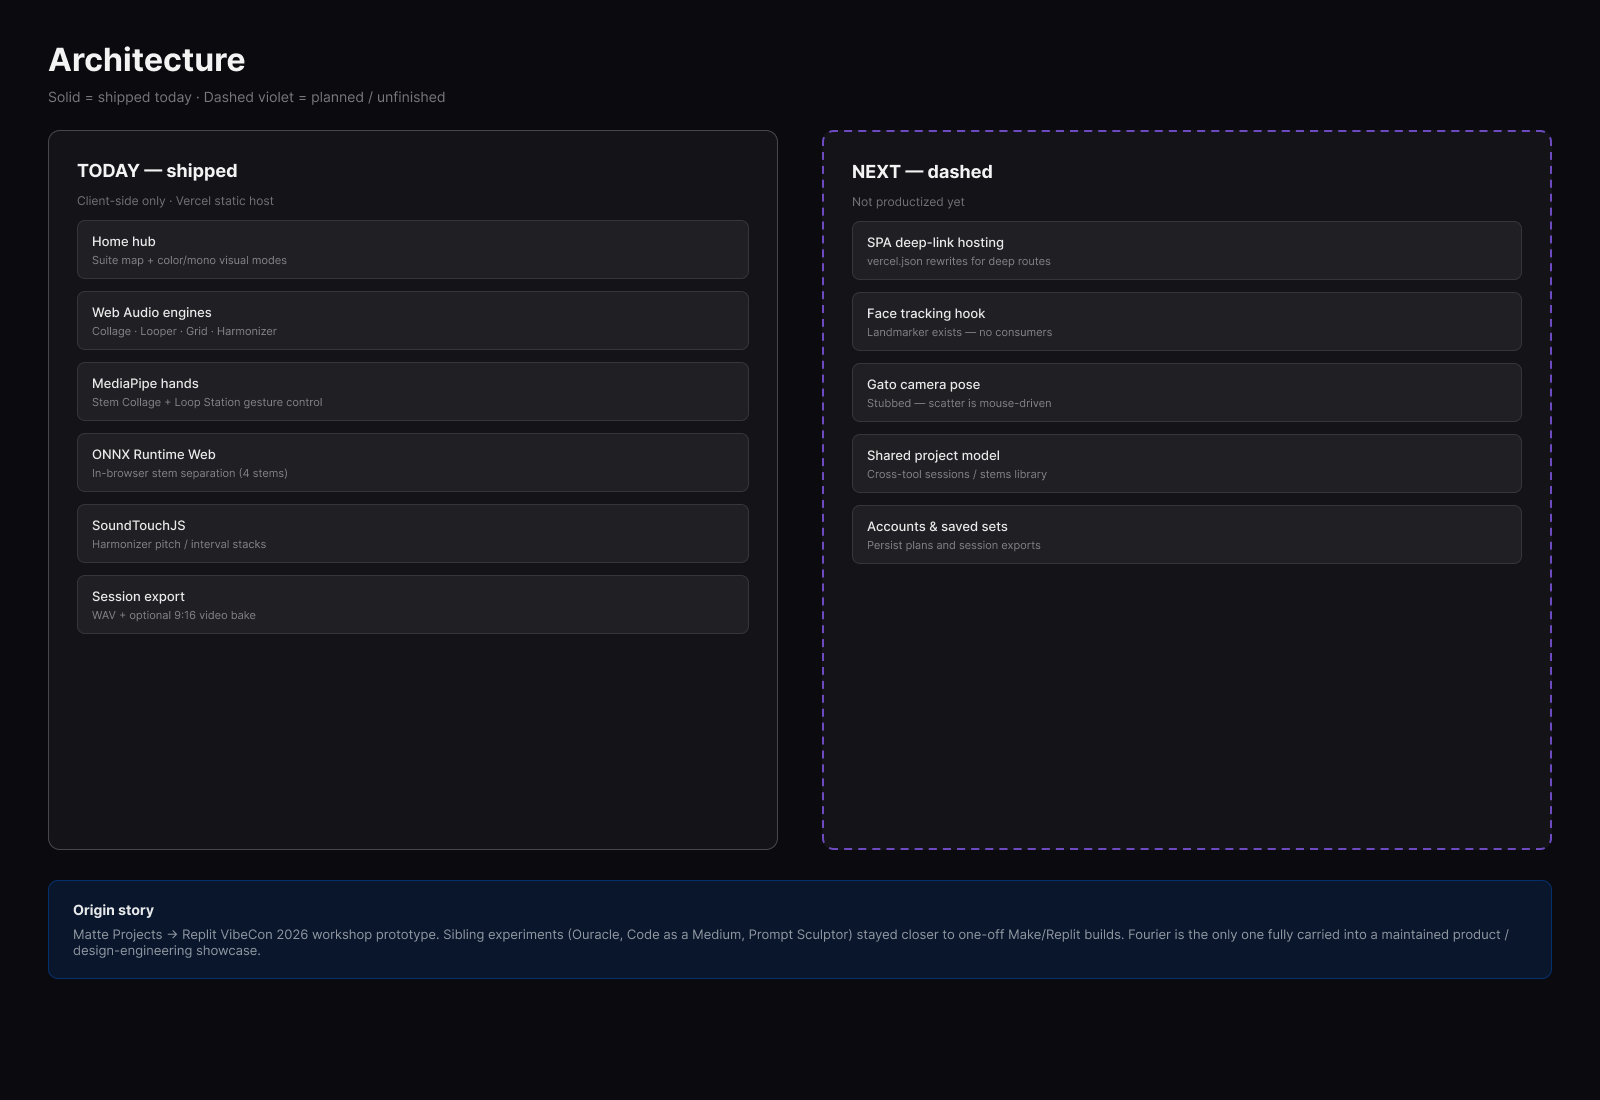
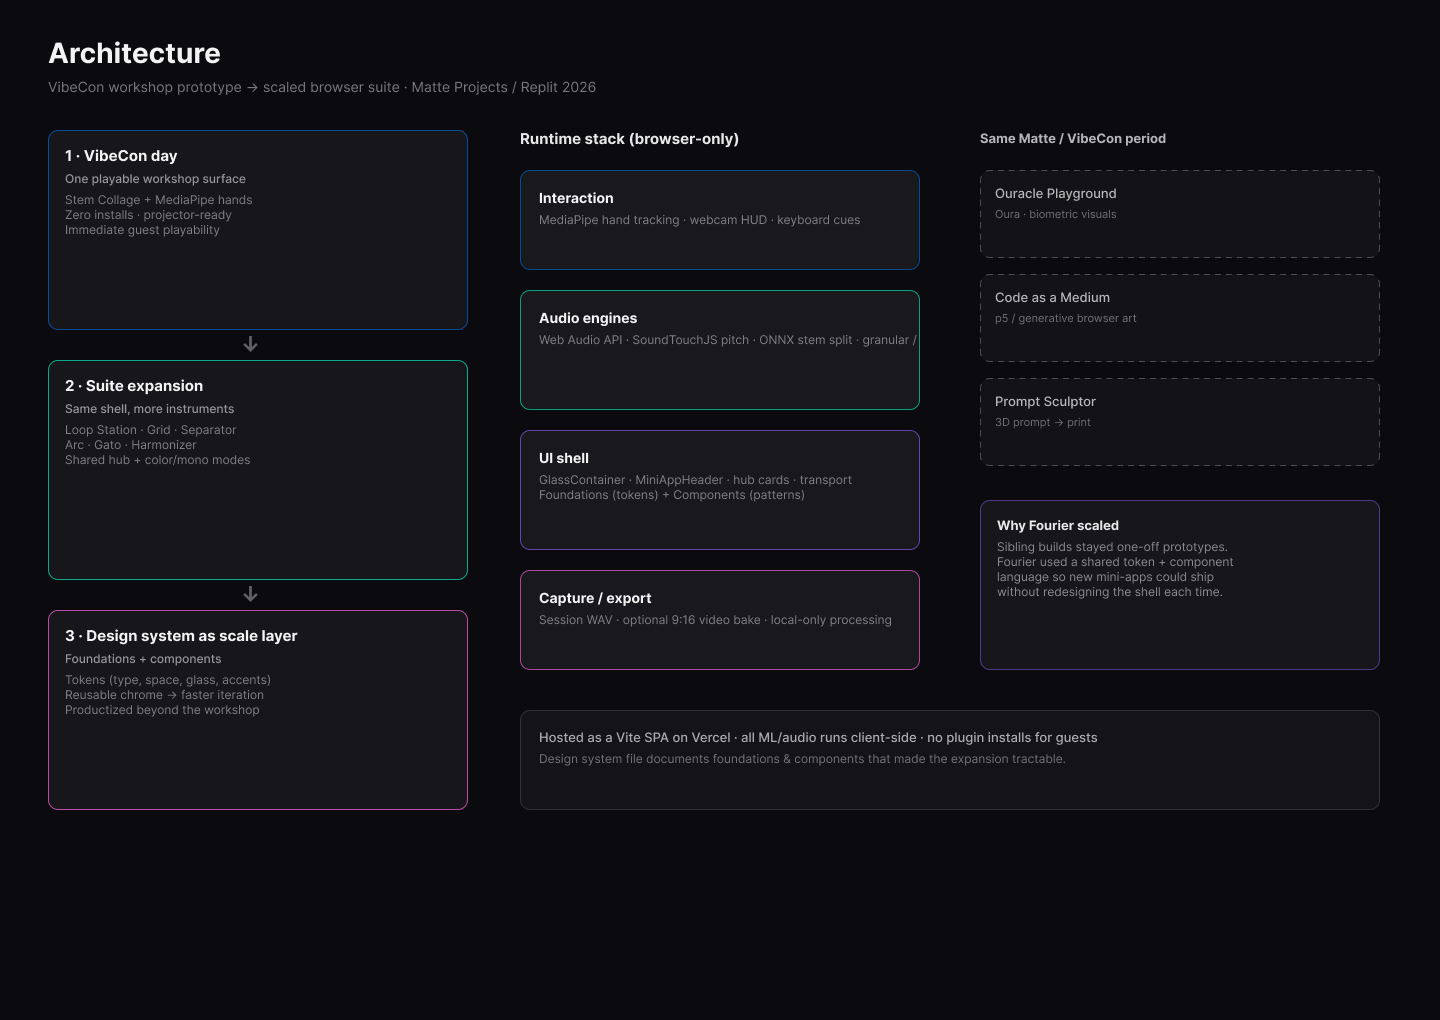
Rewrite portfolio copy for system scale; add VibeCon architecture graphic

diff --git a/docs/portfolio/COPY.md b/docs/portfolio/COPY.md
@@ -10,13 +10,13 @@ Use **exactly these four sections**. Each image appears **once**. The live app a
 | `02-suite-modes.png` | 2 — suite + color/mono |
 | `03-design-foundations.png` | 3 — foundations |
 | `04-design-components.png` | 3 — components |
-| `05-architecture.png` | 4 — bridge |
+| `05-architecture.png` | 4 — VibeCon → product architecture |
 
 ---
 
 ## Intro line (optional, under the iframe)
 
-Fourier began as Matte Projects R&D for Replit’s VibeCon 2026 workshop. Among several Make/Replit prototypes from that contract, it’s the one I fully carried into a productized design-engineering showcase.
+Fourier began as Matte Projects R&D for Replit’s VibeCon 2026 workshop. Among several Make/Replit prototypes from that contract, it’s the one I fully carried into a productized design-engineering showcase—by locking foundations and components early enough to keep iterating.
 
 ---
 
@@ -42,28 +42,28 @@ Beyond the demo moment, Fourier is a hub of mini-apps: looper, grid sampler, ste
 
 ---
 
-## 3. Design system from the live product
+## 3. Foundations and components that let the suite grow
 
-**Header:** Tokens and patterns from the real interface
+**Header:** A system built so I could iterate without redesigning the shell
 
-As the prototype became a maintained product, I documented the system from production—not the unused shadcn folder. Foundations cover the dark canvas, glass alphas, Roboto Mono type roles, spacing scale, radius, grain/atmosphere, per-tool accent pairs, and the color↔mono remap. Components focus on GlassContainer, hub cards, headers, HUD chips, transport/pads, and the unique algorithmic surfaces (corpus scatter, interval grid).
+After VibeCon, the constraint wasn’t “one more demo”—it was adding instruments without starting from scratch each time. I pulled foundations from the live UI (type roles, spacing, glass, accents, color↔mono) and a component set that every mini-app could reuse: GlassContainer, headers, hub cards, HUD chips, transport/pads, and tool-specific surfaces like the interval grid and corpus scatter. That system is what made scaling from a workshop mixer into a full suite tractable.
 
 **Image:** `03-design-foundations.png`  
-**Caption:** Color, mono, type styles, spacing, accents, and glass tokens from the live app.
+**Caption:** Foundations — tokens for color/mono, type, spacing, accents, and glass.
 
 **Image:** `04-design-components.png`  
-**Caption:** UI patterns plus the annotated color/mono suite map.
+**Caption:** Components — shared chrome and patterns reused across mini-apps.
 
 ---
 
-## 4. Bridge to the rest of the Matte / VibeCon work
+## 4. Architecture from VibeCon to product
 
-**Header:** From workshop prototype to product thread
+**Header:** Workshop surface → suite → design system as the scale layer
 
-Fourier sits next to other Matte experiments on this page—Ouracle Playground, Code as a Medium, Prompt Sculptor—but it is the only one I fully built out as a fullstack design-engineering product. The architecture diagram shows what’s live today (Web Audio, MediaPipe hands, ONNX stems, export) and dashed next steps. Scroll down for the adjacent R&D that stayed closer to one-off installations and Make prototypes.
+The architecture follows the same path as the project: a single VibeCon playable surface, then a browser suite under one hub, with foundations and components acting as the layer that made expansion possible. Runtime stays client-side—MediaPipe interaction, Web Audio / ONNX / SoundTouch engines, UI shell, and local export. Sibling Matte experiments from the same period (Ouracle, Code as a Medium, Prompt Sculptor) stayed closer to one-off prototypes; Fourier is the one that used a shared system to keep going.
 
 **Image:** `05-architecture.png`  
-**Caption:** Today’s browser stack vs dashed next (shared projects, unused CV hooks, deeper hosting).
+**Caption:** VibeCon → suite expansion → design system scale layer, beside the browser runtime stack.
 
 **Closing line:** Fourier is the VibeCon prototype that became the lasting product. Keep scrolling for Ouracle, Code as a Medium, and Prompt Sculptor—the sibling Matte / Replit experiments from the same period.
 

diff --git a/docs/superpowers/specs/2026-10-06-fourier-portfolio-pack-design.md b/docs/superpowers/specs/2026-10-06-fourier-portfolio-pack-design.md
@@ -15,7 +15,7 @@ Fourier started as Matte Projects R&D for Replit VibeCon 2026 — a playable bro
 ## Figma file
 
 **Name:** Fourier — Design System & Architecture  
-Pages: Cover · Foundations (incl. color + mono, spacing, type) · Components · Screens
+Pages: Cover · Foundations (incl. color + mono, spacing, type) · Components · Screens · Architecture (VibeCon → suite)
 
 ## Portfolio sections (below iframe)
 

diff --git a/README.md b/README.md
@@ -74,7 +74,7 @@ Only patterns the app actually uses (most of the shadcn folder is unused and omi
 
 ![Component library — UI patterns + suite map](docs/readme/components.png)
 
-**Figma pages:** Cover · Foundations · Components · Screens.
+**Figma pages:** Cover · Foundations · Components · Screens · Architecture.
 
 ## Features
 
